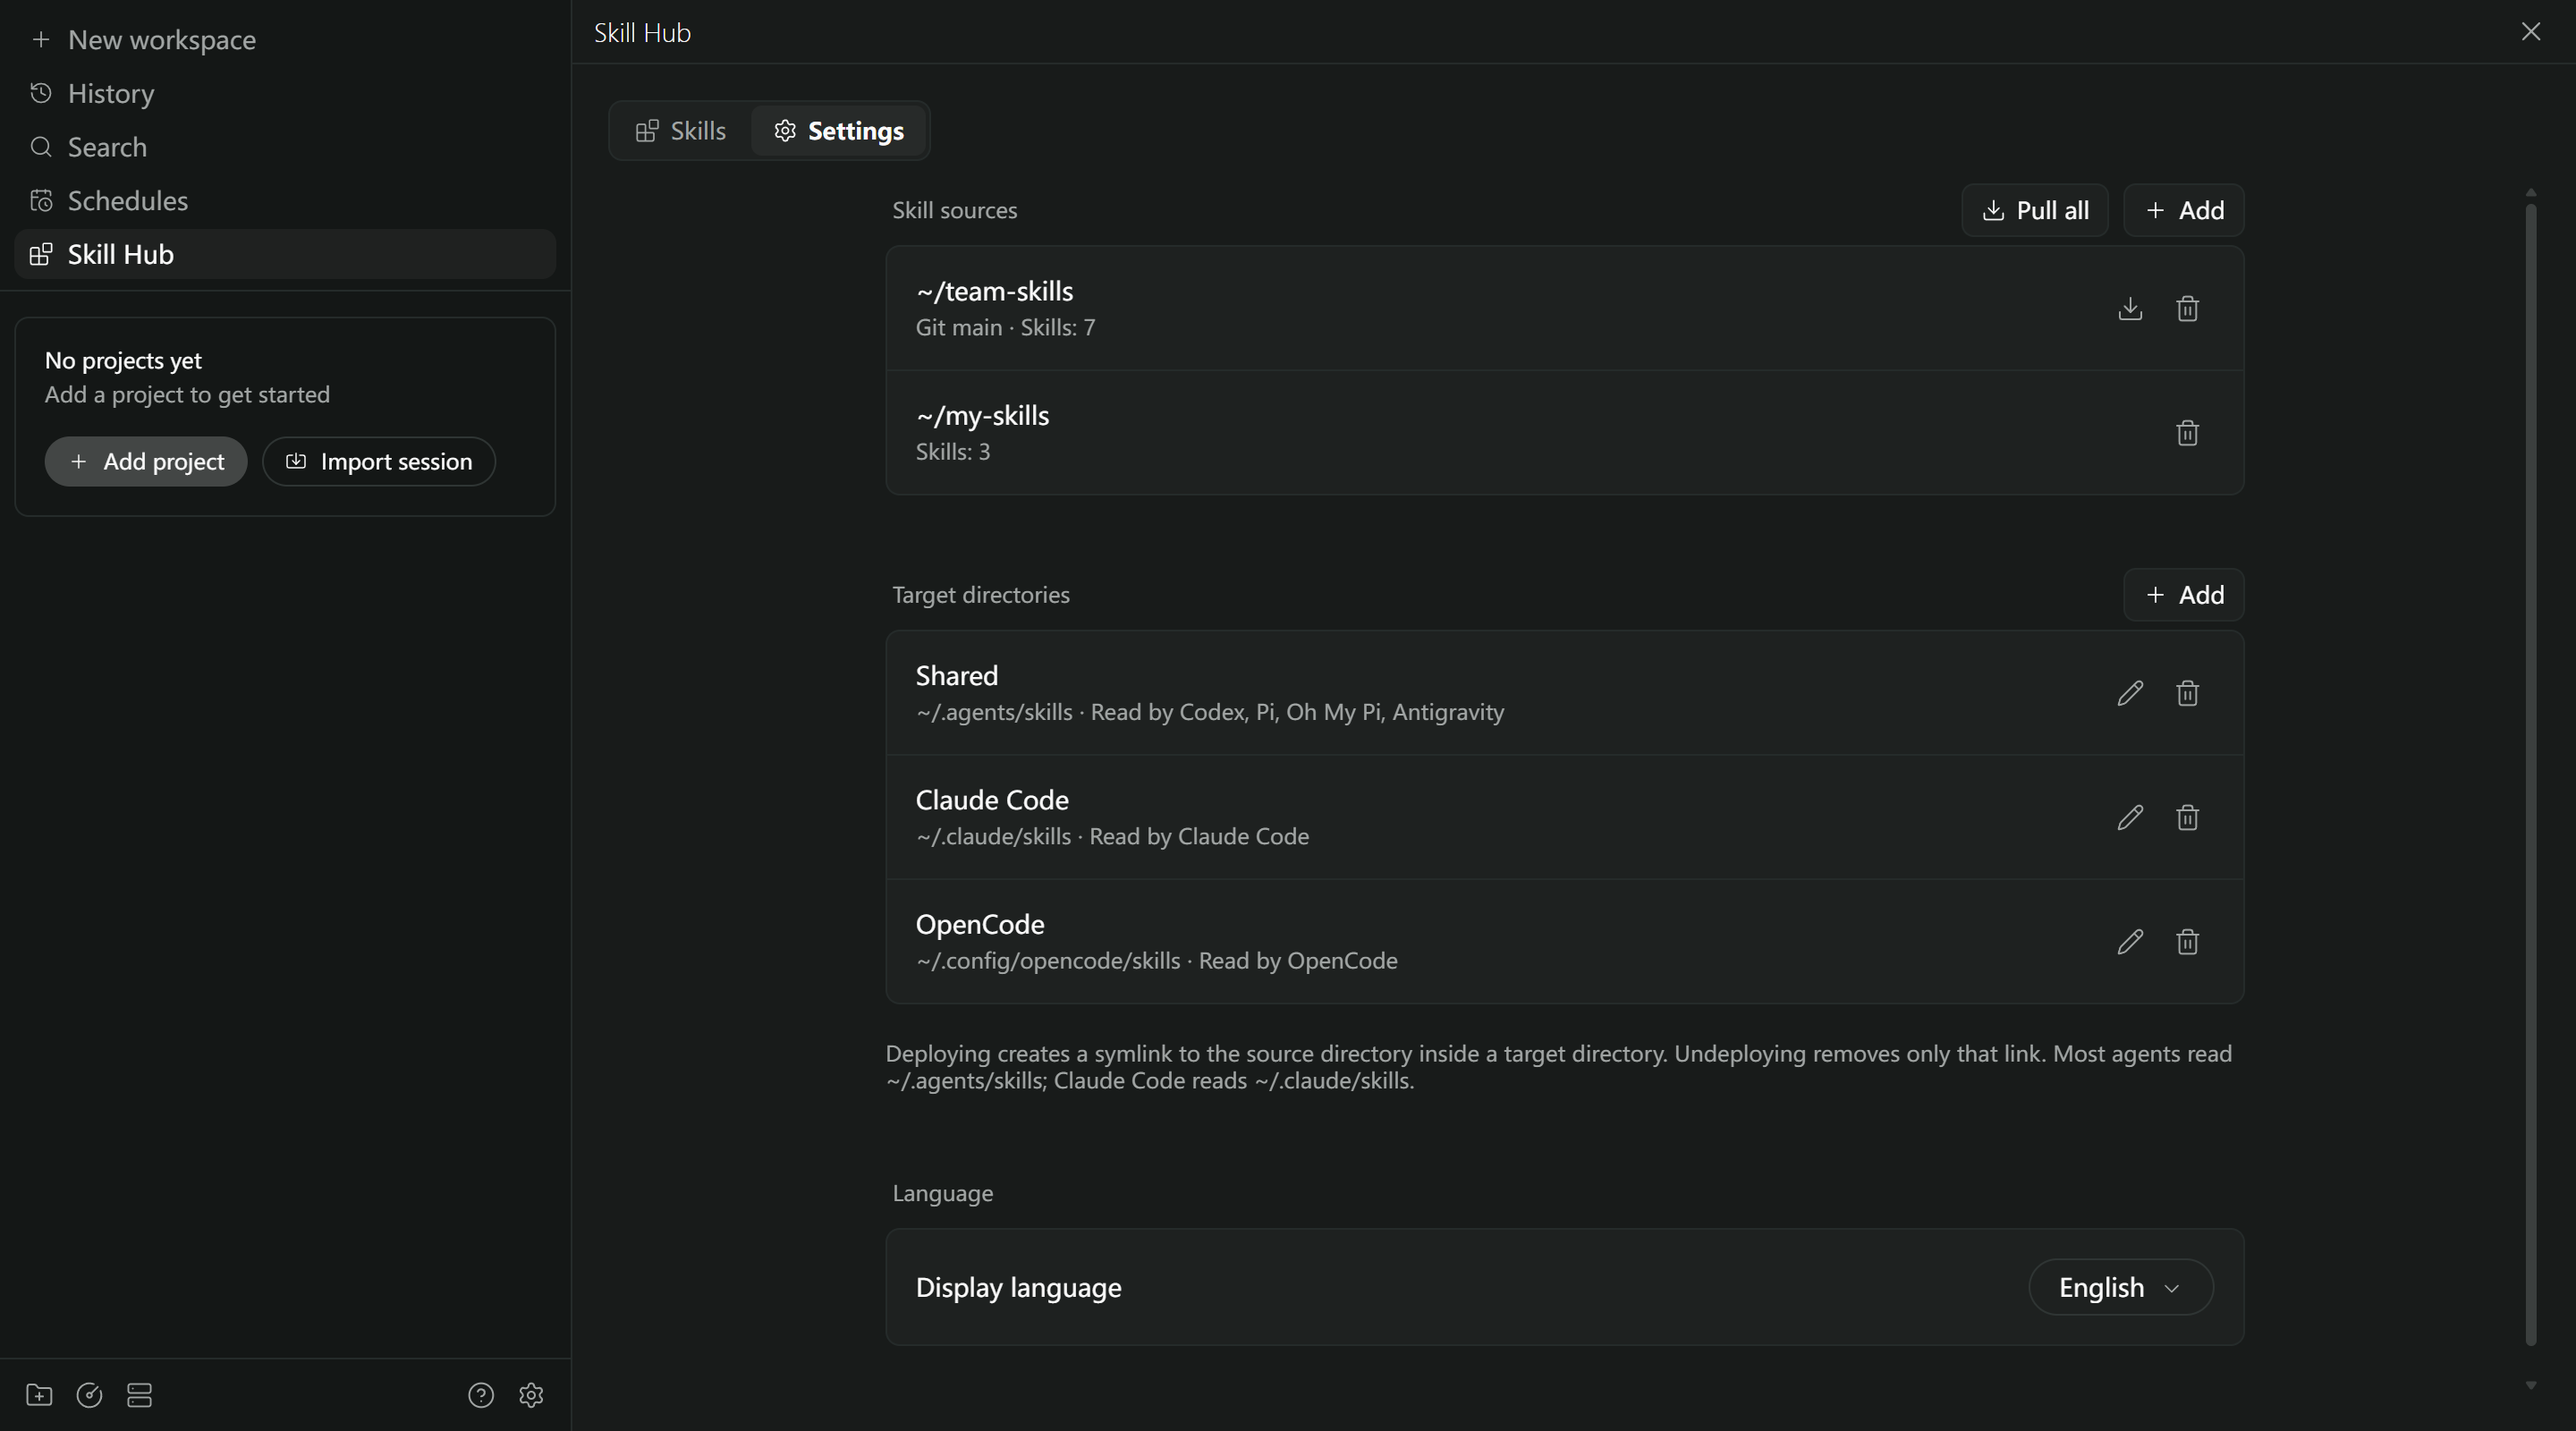
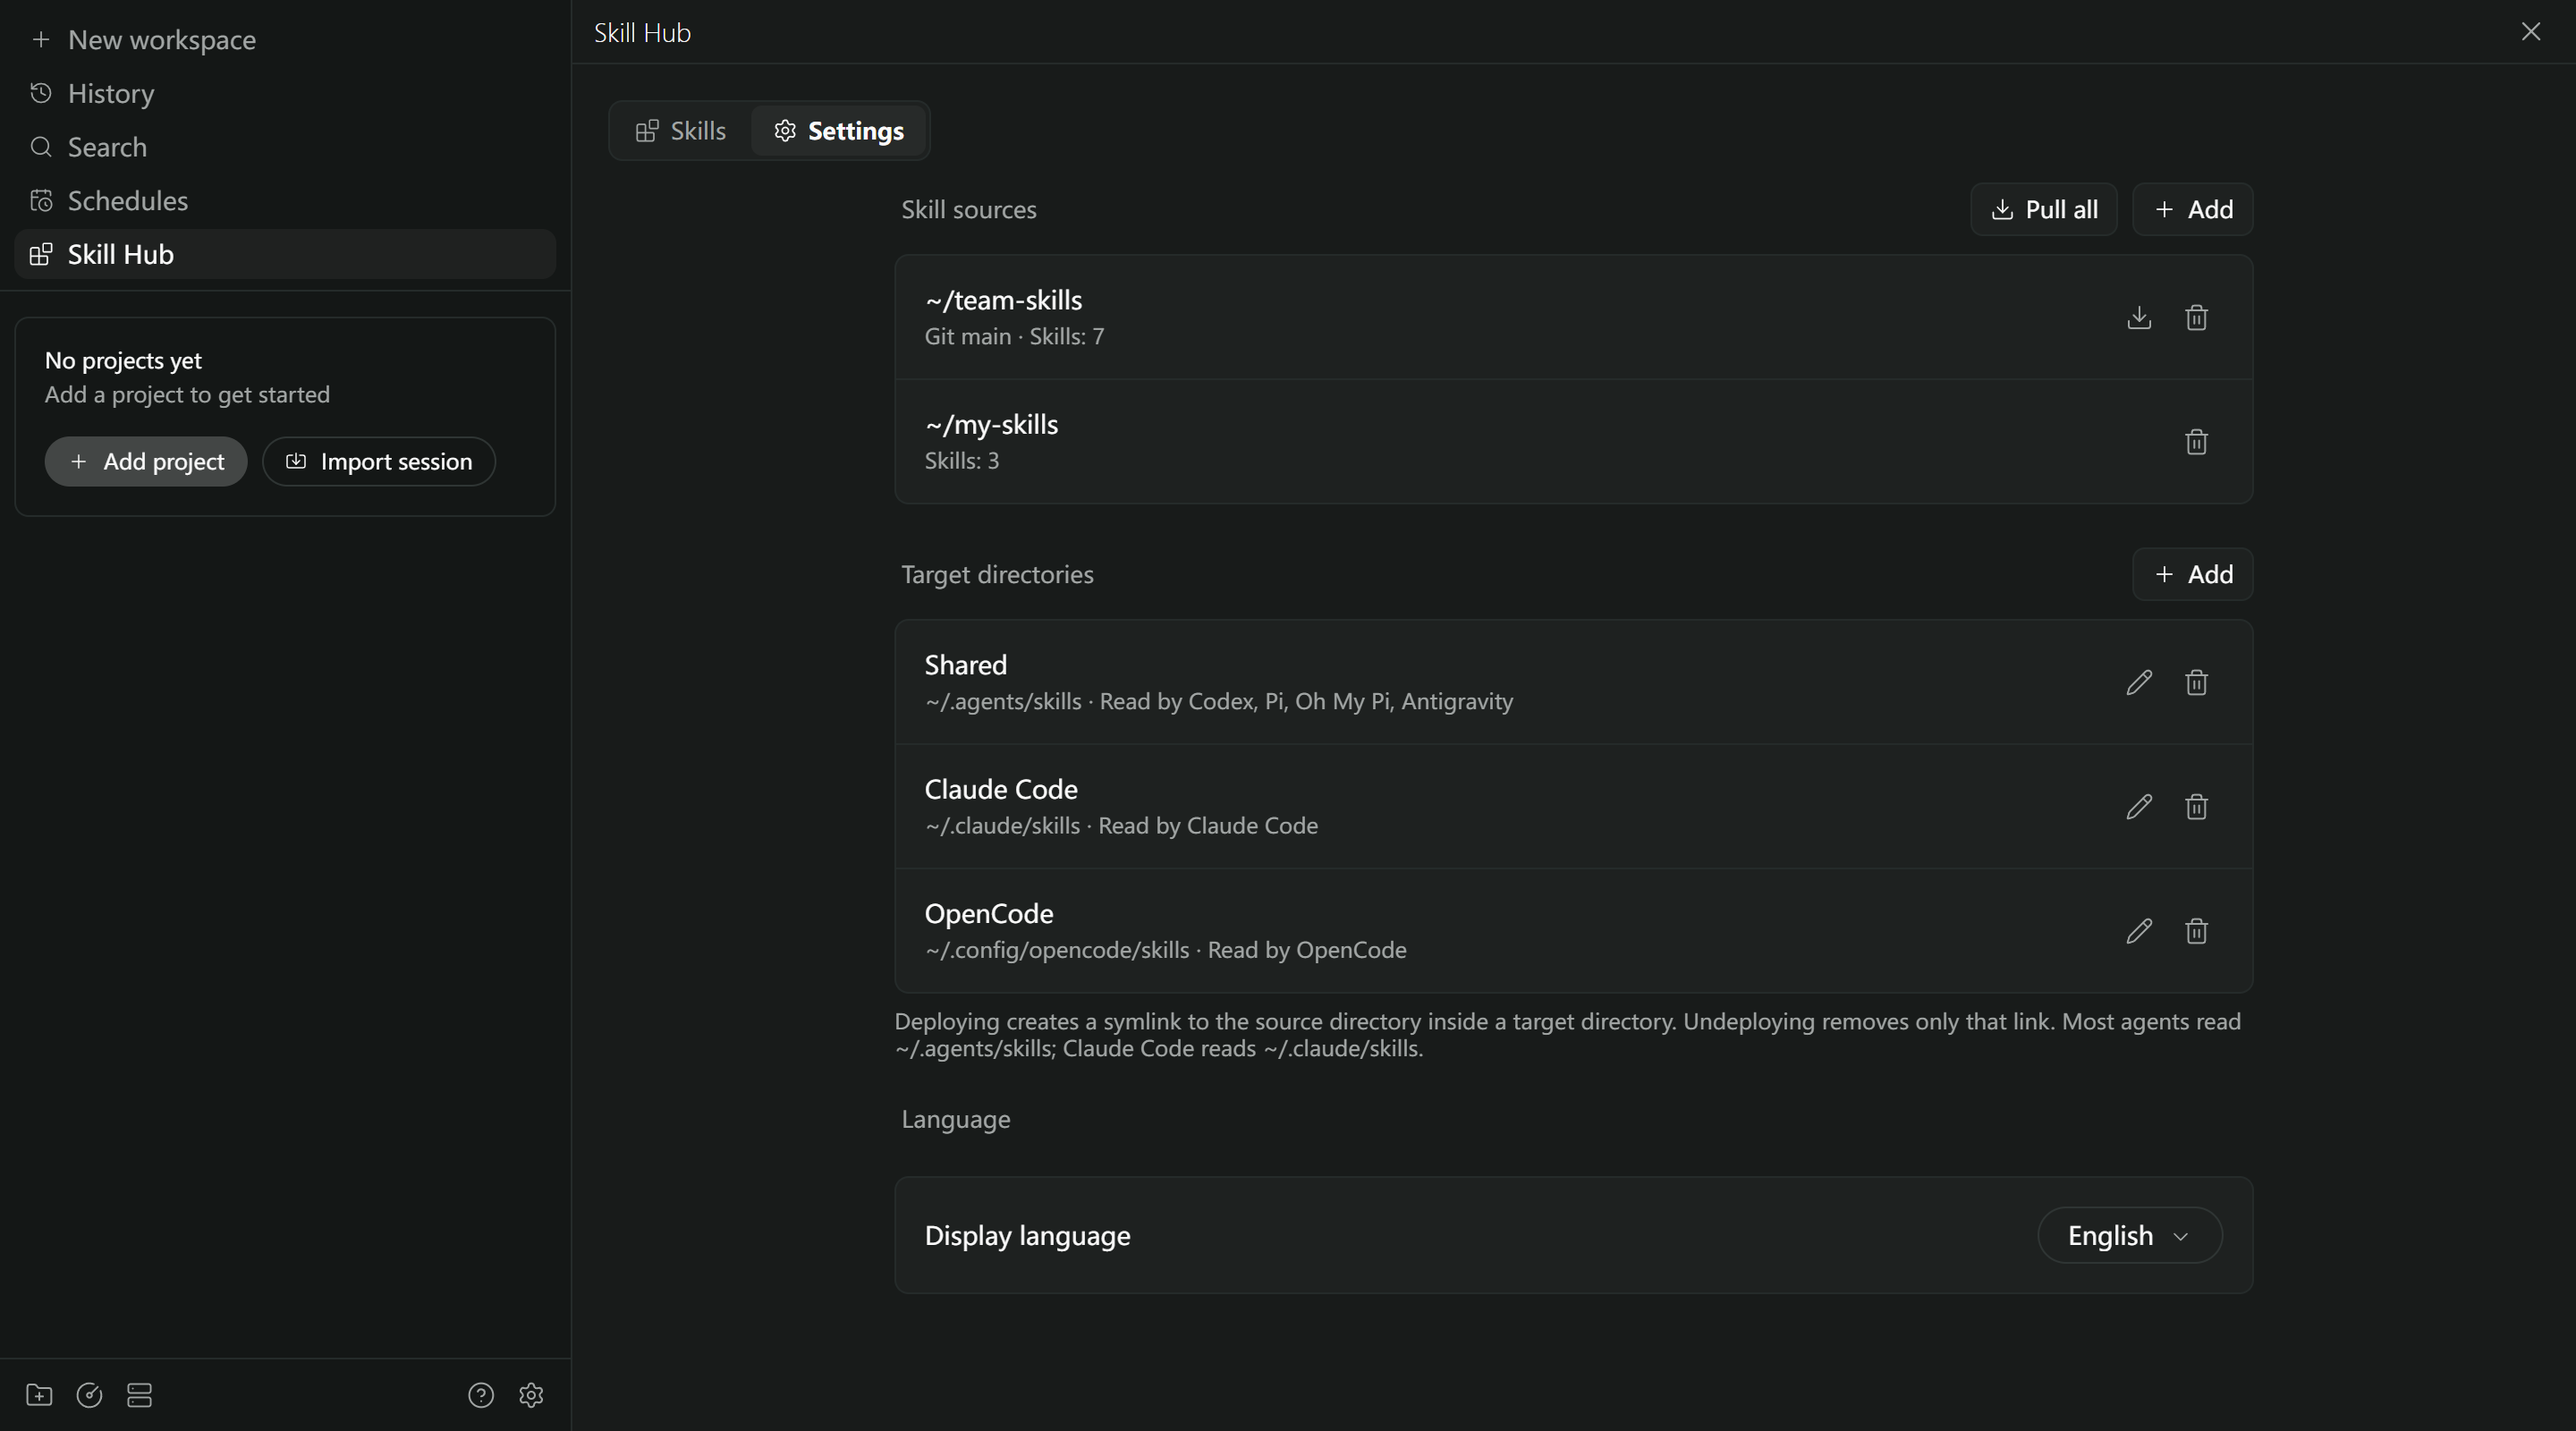
Fix section buttons overlapping the card on mobile
The host SettingsSection trailing slot is shorter than the Pull all and
Add buttons, so they spilled out of the header: upward on desktop and
down under the card on mobile. Sections now use their own header row,
where the buttons are part of the layout. This also drops the padding
workaround for the desktop case.

Retake the Settings screenshot with the fixed layout.

diff --git a/client/SettingsPage.tsx b/client/SettingsPage.tsx
@@ -2,11 +2,10 @@ import {
   Loading,
   SettingsCard,
   SettingsRow,
-  SettingsSection,
   SettingsSelect,
   useToast,
 } from "@getpaseo/plugin/client/ui";
-import { useState } from "react";
+import { type ReactNode, useState } from "react";
 import { Text, View } from "react-native";
 import {
   type HubConfig,
@@ -107,10 +106,10 @@ export function SettingsPage() {
 
   return (
     <View style={{ gap: 24 }}>
-      <SettingsSection
+      <Section
         title={t("settings.sources")}
-        trailing={
-          <View style={{ flexDirection: "row", gap: 8 }}>
+        actions={
+          <>
             {git.gitSources.length > 0 ? (
               <Button
                 icon="Download"
@@ -120,7 +119,7 @@ export function SettingsPage() {
               />
             ) : null}
             <Button icon="Plus" label={t("common.add")} onPress={() => setEditing({ kind: "source" })} />
-          </View>
+          </>
         }
       >
         <SettingsCard>
@@ -167,11 +166,11 @@ export function SettingsPage() {
             })
           )}
         </SettingsCard>
-      </SettingsSection>
+      </Section>
 
-      <SettingsSection
+      <Section
         title={t("settings.targets")}
-        trailing={
+        actions={
           <Button
             icon="Plus"
             label={t("settings.addTarget")}
@@ -204,10 +203,10 @@ export function SettingsPage() {
             </SettingsRow>
           ))}
         </SettingsCard>
-        <Text style={{ color: colors.foregroundMuted, fontSize: 12, marginTop: 8 }}>{t("settings.targetsNote")}</Text>
-      </SettingsSection>
+        <Text style={{ color: colors.foregroundMuted, fontSize: 12 }}>{t("settings.targetsNote")}</Text>
+      </Section>
 
-      <SettingsSection title={t("settings.language")}>
+      <Section title={t("settings.language")}>
         <SettingsCard>
           <SettingsSelect
             label={t("settings.languageLabel")}
@@ -217,7 +216,7 @@ export function SettingsPage() {
             onValueChange={(language) => void save({ ...values, language })}
           />
         </SettingsCard>
-      </SettingsSection>
+      </Section>
 
       {editing?.kind === "source" ? (
         <SourceDialog
@@ -234,6 +233,33 @@ export function SettingsPage() {
           onSave={saveTarget}
         />
       ) : null}
+    </View>
+  );
+}
+
+/**
+ * Section heading with optional actions on the same line. The host SettingsSection `trailing` slot
+ * is shorter than these buttons, so they overlapped the card below on mobile.
+ */
+function Section({ title, actions, children }: { title: string; actions?: ReactNode; children: ReactNode }) {
+  const { colors } = useKit();
+  return (
+    <View style={{ gap: 8 }}>
+      <View
+        style={{
+          flexDirection: "row",
+          alignItems: "center",
+          justifyContent: "space-between",
+          flexWrap: "wrap",
+          gap: 8,
+          minHeight: 32,
+          paddingLeft: 4,
+        }}
+      >
+        <Text style={{ flexShrink: 1, color: colors.foregroundMuted, fontSize: 13, fontWeight: "500" }}>{title}</Text>
+        {actions ? <View style={{ flexDirection: "row", alignItems: "center", gap: 8 }}>{actions}</View> : null}
+      </View>
+      {children}
     </View>
   );
 }

diff --git a/client/HubScreen.tsx b/client/HubScreen.tsx
@@ -24,7 +24,7 @@ export function HubScreen({ theme, layout, params }: PluginScreenProps) {
         {tab === "skills" ? (
           <SkillsPage onOpenSettings={() => setTab("settings")} />
         ) : (
-          <ScrollView style={{ flex: 1 }} contentContainerStyle={{ paddingTop: 8, paddingBottom: pad }}>
+          <ScrollView style={{ flex: 1 }} contentContainerStyle={{ paddingBottom: pad }}>
             <View style={{ width: "100%", maxWidth: 760, alignSelf: "center" }}>
               <SettingsPage />
             </View>
